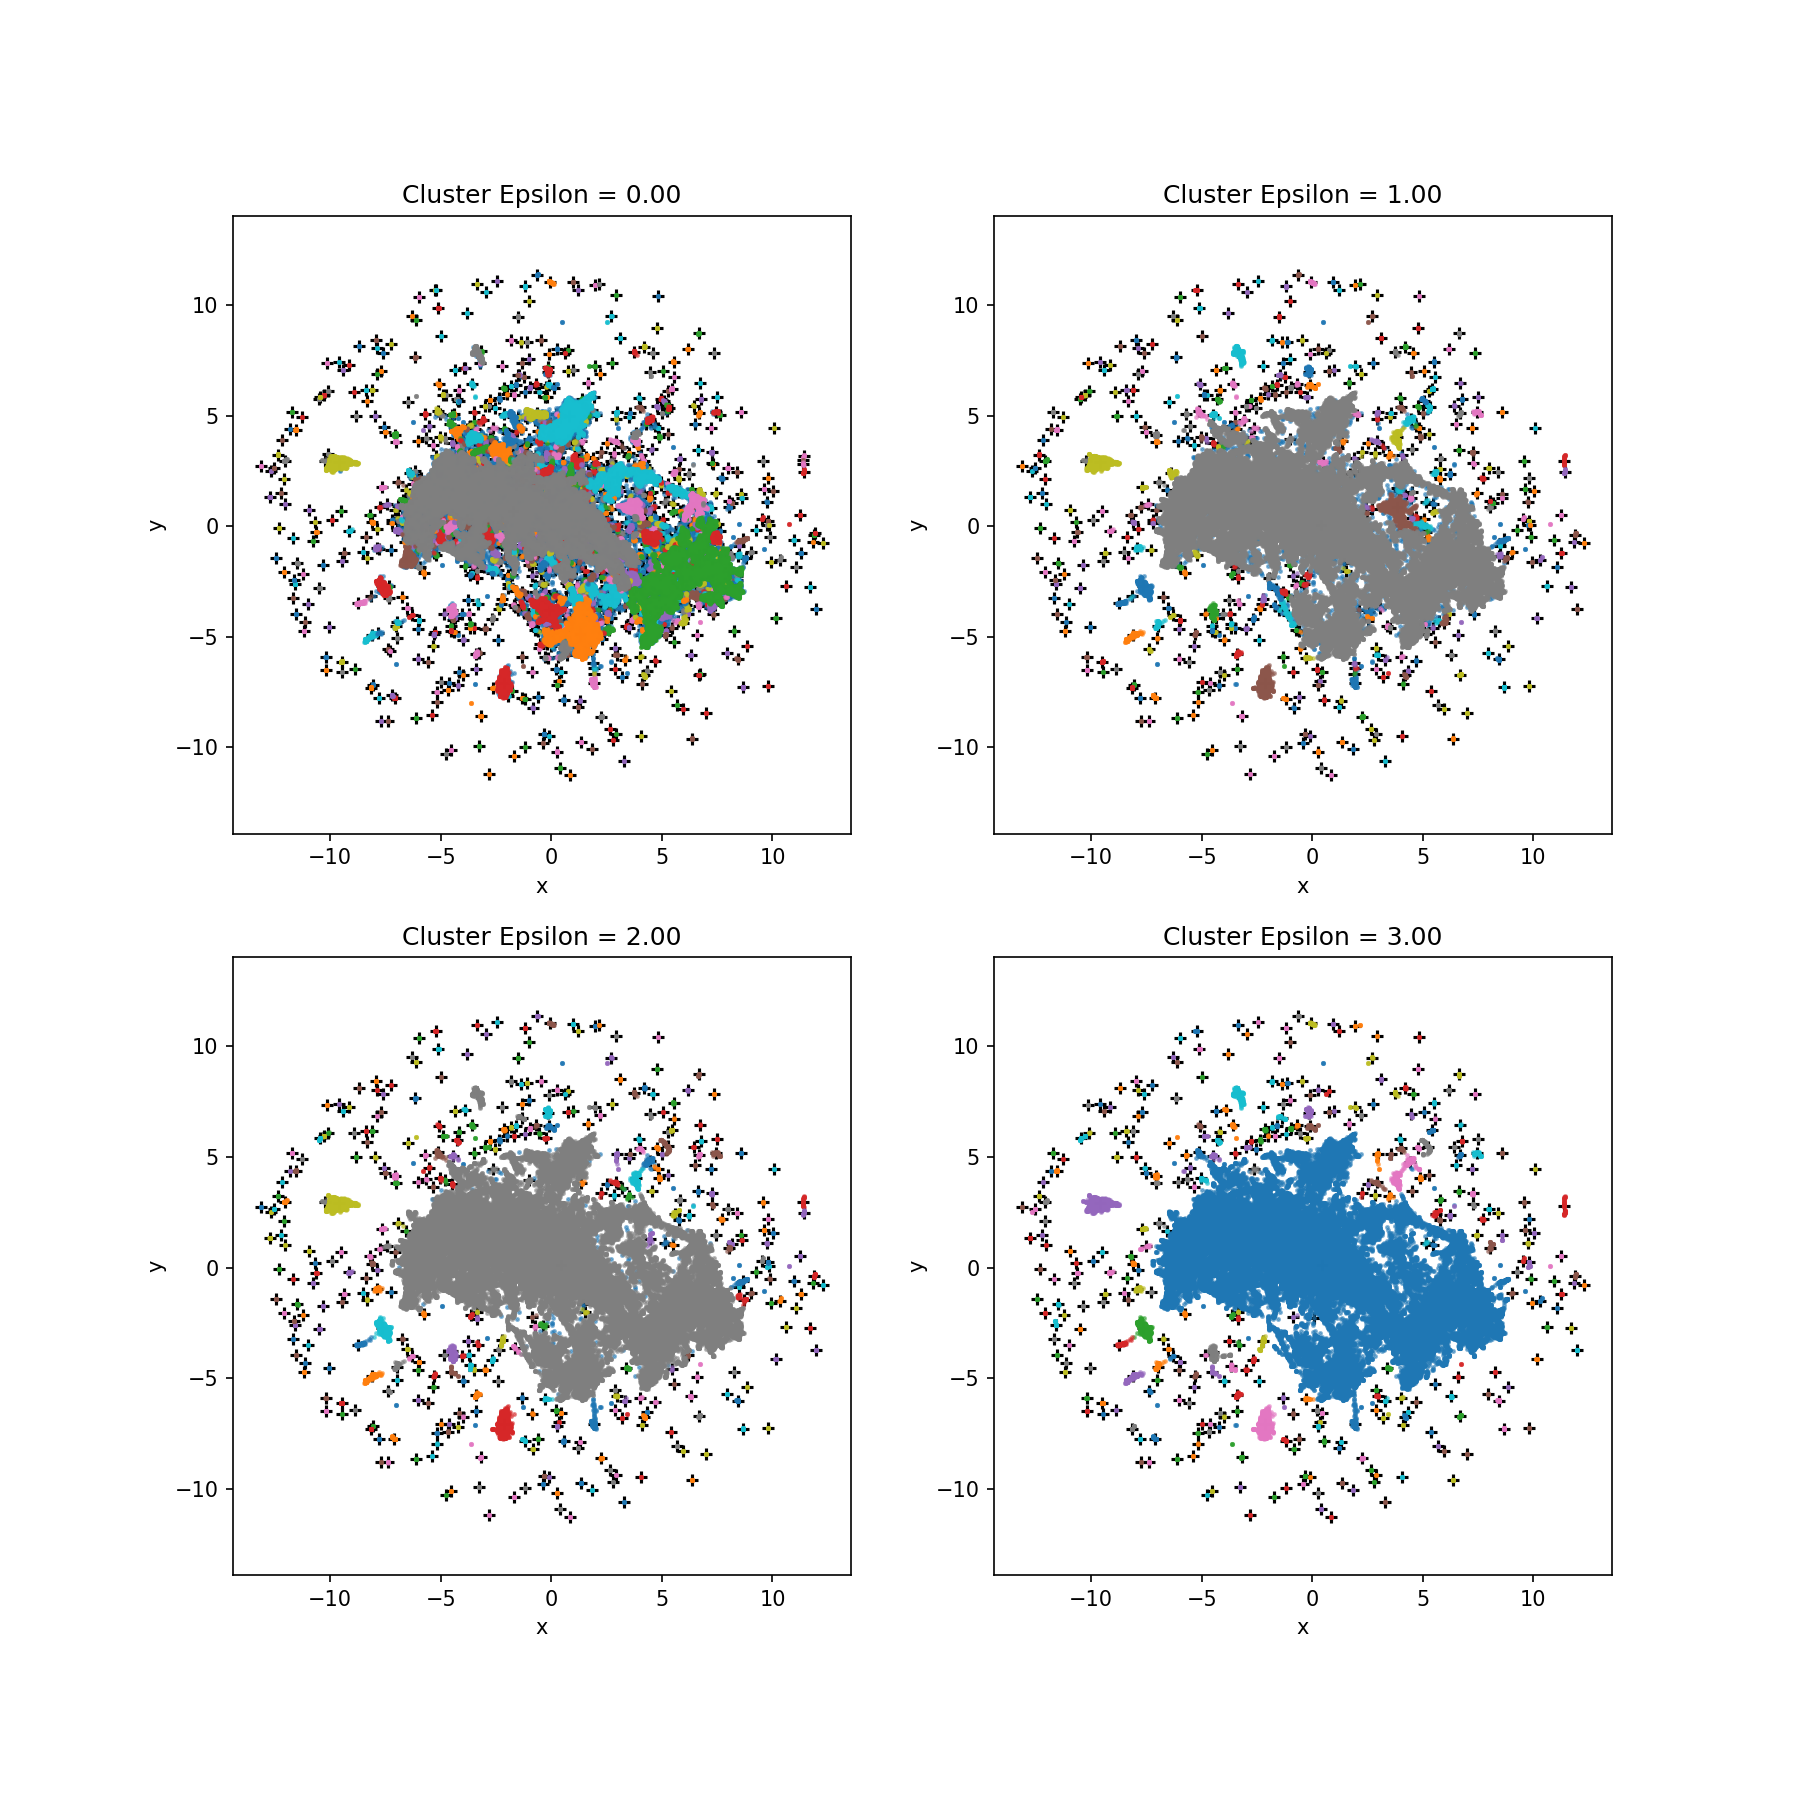
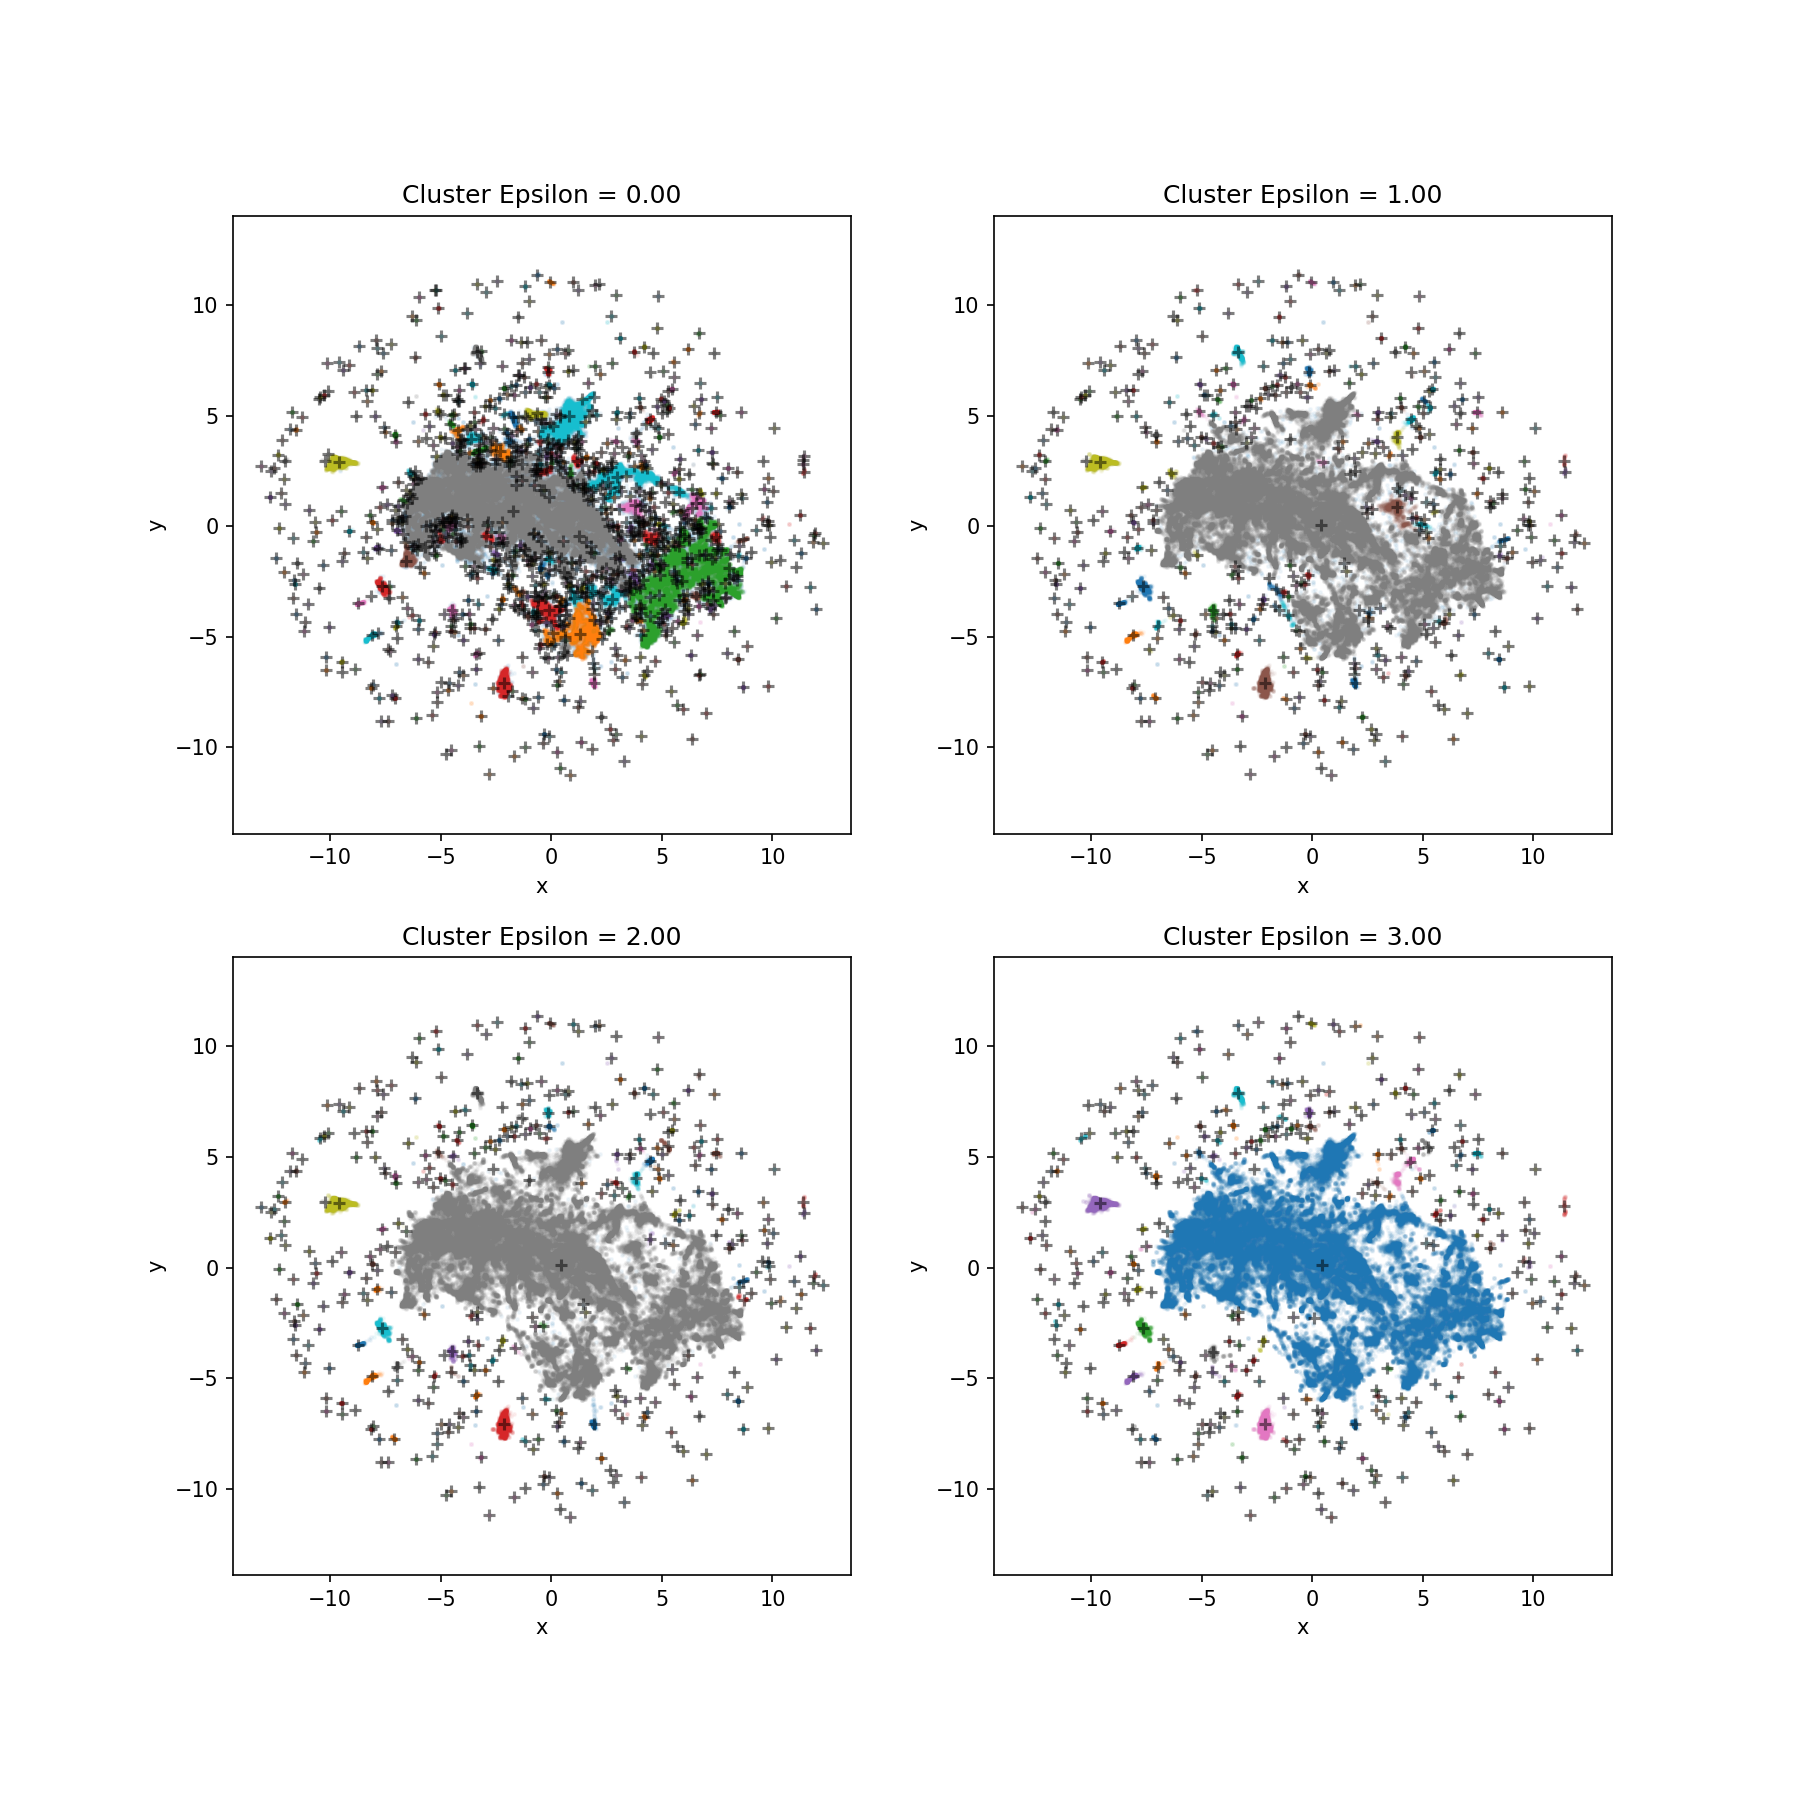
Sanity check doc cluster names

diff --git a/KB/3_wisconsin_doc2vec.py b/KB/3_wisconsin_doc2vec.py
@@ -250,8 +250,8 @@ knn_ind = [emlib.generate_nn_cluster_centroid_list(coors = embs_wisconsin_red, l
 fig, ax = plt.subplots(nrows = 2, ncols = 2, figsize = (12, 12))
 
 for i, x in enumerate(fig.axes):
-    __ = emlib.plot_emb(coor = embs_wisconsin_red, labels = labels_clusters[i], cmap_name = 'qual', legend_kwargs = {}, colorbar = False, str_title = f"Cluster Epsilon = {i:.2f}", ax = x)
-    __ = x.scatter(embs_wisconsin_red[knn_ind[i], 0], embs_wisconsin_red[knn_ind[i], 1], marker = '+', color = 'k')
+    __ = emlib.plot_emb(coor = embs_wisconsin_red, labels = labels_clusters[i], cmap_name = 'qual', legend_kwargs = {}, colorbar = False, str_title = f"Cluster Epsilon = {i:.2f}", marker_alpha = 0.05, ax = x)
+    __ = x.scatter(embs_wisconsin_red[knn_ind[i], 0], embs_wisconsin_red[knn_ind[i], 1], marker = '+', alpha = 0.5, color = 'k', zorder = 101)
     __ = plt.setp(x, xlabel = 'x', ylabel = 'y')
 
 fig.savefig('./figures/wisconsin/xdd-covid-19-8Dec-doc2vec/embeddings_2d_clusters.png', dpi = 150)
@@ -386,6 +386,28 @@ del i, x, node, nodeLayout, nodeAtts, name, labels, labels_unique, clusters, clu
 
 
 # time: 1 m 36 s
+
+
+# %%
+# Sanity check
+#
+# Check if every cluster name is a name of a member node
+
+map_ids_nodes = {node['id']: i for i, node in enumerate(nodes)}
+
+x = [None for cluster in clusters]
+
+for i, cluster in enumerate(clusters):
+
+    x[i] = cluster['name'] in [nodes[map_ids_nodes[id]]['name'] for id in cluster['node_ids']]
+
+
+
+
+
+
+
+
 
 
 # %%

diff --git a/BIO/emmaa_11_v3_1_workshop.py b/BIO/emmaa_11_v3_1_workshop.py
@@ -31,7 +31,7 @@ np.random.seed(0)
 # %%[markdown]
 # # Load Statements of Full Model Graph
 statements_full = {}
-with open('./data/covid19/covid19-snapshot_dec8-2020/source/latest_statements_covid19.json', 'r') as x:
+with open('./data/models/covid19/covid19-snapshot_dec8-2020/source/latest_statements_covid19.json', 'r') as x:
     statements_full = json.load(x)
 
 x = None
@@ -39,7 +39,7 @@ del x
 
 # %%[markdown]
 # Load Mitre-Tested Paths
-paths_mitre = emlib.load_jsonl('./data/covid19/covid19-snapshot_dec8-2020/source/covid19_mitre_tests_latest_paths.jsonl')
+paths_mitre = emlib.load_jsonl('./data/models/covid19/covid19-snapshot_dec8-2020/source/covid19_mitre_tests_latest_paths.jsonl')
 
 
 # %%[markdown]
